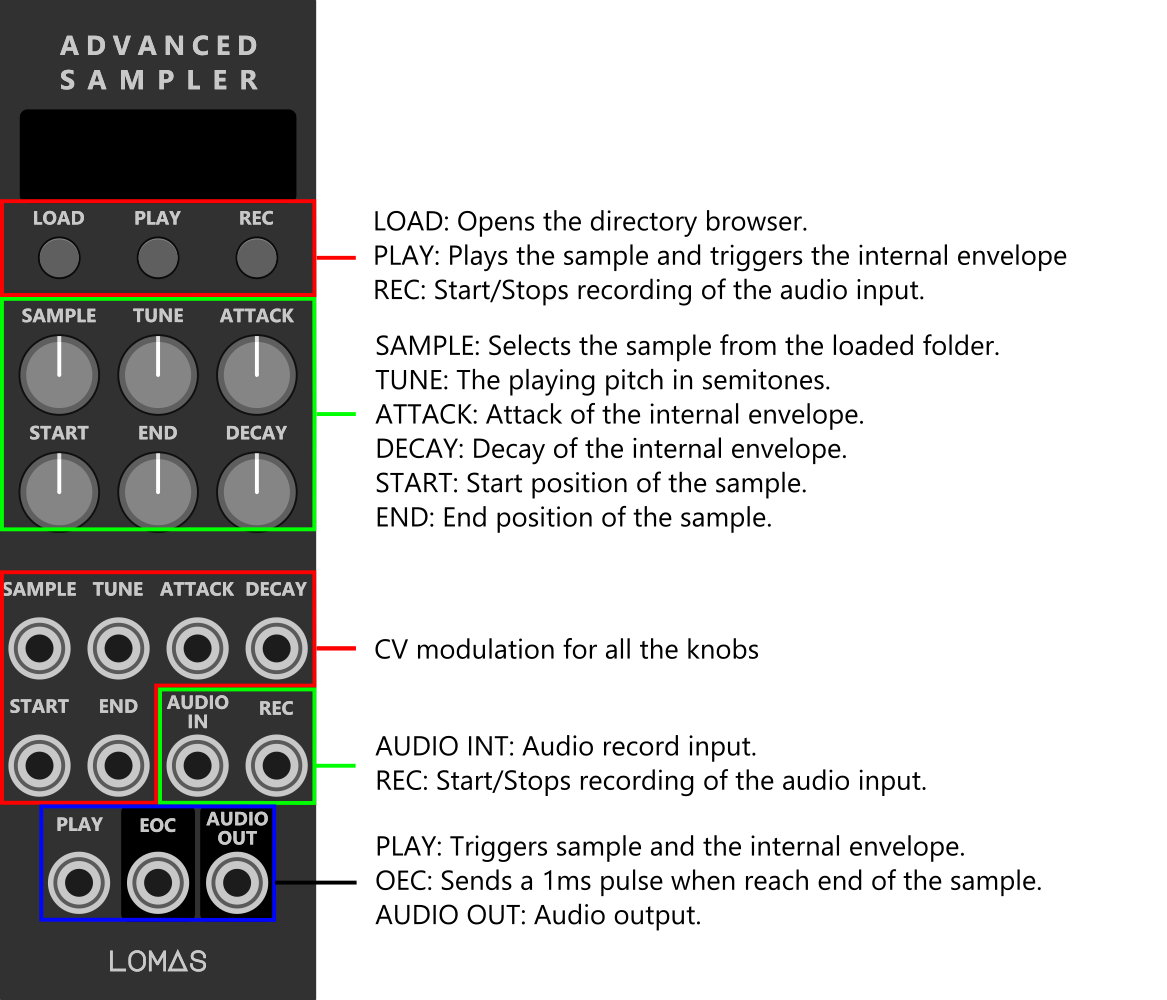
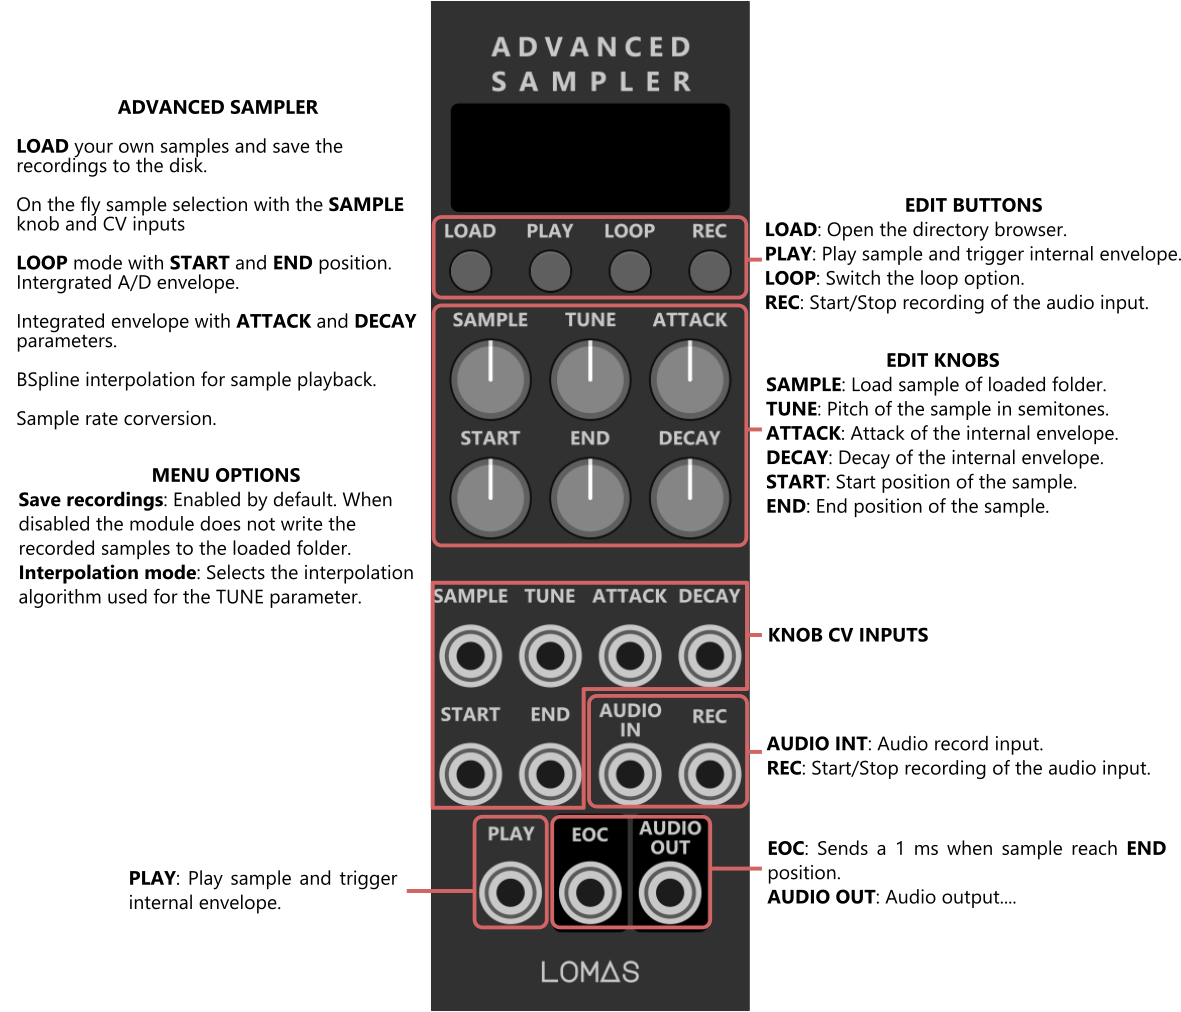
Added hold envelope to sampler. Update QuickManual for sampler.

diff --git a/src/AdvancedSampler.cpp b/src/AdvancedSampler.cpp
@@ -180,13 +180,13 @@ struct AdvancedSampler : Module
 		float attack = clamp(params[ATTACK_PARAM].getValue() + (inputs[ATTACK_INPUT].getVoltage() * .1f), 0.f, 1.f);
 		float decay = clamp(params[DECAY_PARAM].getValue() + (inputs[DECAY_INPUT].getVoltage() * .1f), 0.f, 1.f);
 		float attackLambda = pow(LAMBDA_BASE, -attack) / MIN_TIME;
-		float decayLambda = decay == 1.0f ? 0.0f : pow(LAMBDA_BASE, -decay) / MIN_TIME;
+		float decayLambda = decay == 1.0f && looping_ ? 0.0f : pow(LAMBDA_BASE, -decay) / MIN_TIME;
 
 		// TODO hold envelope
-		//if (params[ATTACK_HOLD_PARAM].getValue())
-		//	env_.configureHDenvelope(attackLambda, decayLambda); // Hold & Decay
-		//else
-		env_.configureADenvelope(attackLambda, decayLambda); // Attack & Decay
+		if (hold_)
+			env_.configureHDenvelope(attackLambda, decayLambda); // Hold & Decay
+		else
+			env_.configureADenvelope(attackLambda, decayLambda); // Attack & Decay
 
 		// Sample rate conversion
 		if (outputBuffer_.empty())
@@ -337,6 +337,7 @@ struct AdvancedSampler : Module
 	bool looping_ = false;
 	bool eoc_ = false;
 	bool save_recordings_ = true;
+	bool hold_ = false;
 	float phase_ = 0;
 	float phase_start_ = 0;
 	float phase_end_ = 0;
@@ -613,13 +614,28 @@ struct AdvancedSamplerWidget : ModuleWidget
 			}
 		};
 
+		struct HoldItem : MenuItem {
+			AdvancedSampler *module;
+			void onAction(const event::Action &e) override {
+				module->hold_ ^= true;
+			}
+			void step() override {
+				rightText = CHECKMARK(module->hold_);
+			}
+		};
+
+		menu->addChild(new MenuEntry);
+		HoldItem *holdItem = createMenuItem<HoldItem>("Hold");
+		holdItem->module = module;
+		menu->addChild(holdItem);
+
 		menu->addChild(new MenuEntry);
 		SaveItem *saveItem = createMenuItem<SaveItem>("Save recordings");
 		saveItem->module = module;
 		menu->addChild(saveItem);
 
 		menu->addChild(new MenuEntry);
-		InterpolationItem *interpolationItem = createMenuItem<InterpolationItem>("Interpolation mode");
+		InterpolationItem *interpolationItem = createMenuItem<InterpolationItem>("Interpolation mode", "->");
 		interpolationItem->module = module;
 		menu->addChild(interpolationItem);
 	}

diff --git a/src/GateSequencer.cpp b/src/GateSequencer.cpp
@@ -127,7 +127,7 @@ struct GateSequencer : Module
 			UpdateUI(gate_in, gate_out);
 	}
 	//           Click   -  Hold ON - Hold OFF
-	// Page      Select  -          -   Copy
+	// Page      Select  -   Clear  -   Copy
 	// Pattern   Select  -   Clear  -   Copy
 
 	// Grid      Switch  -  Last step
